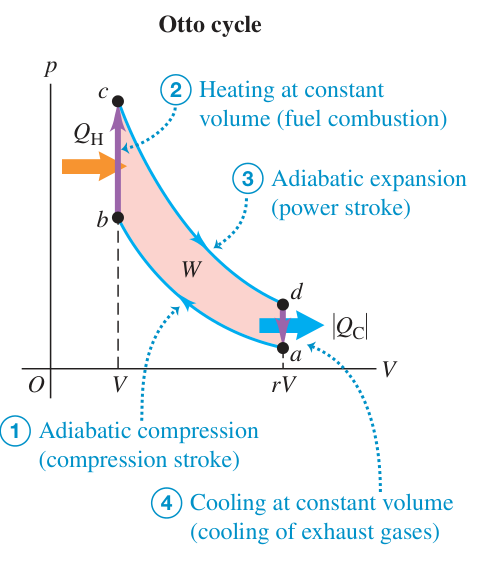
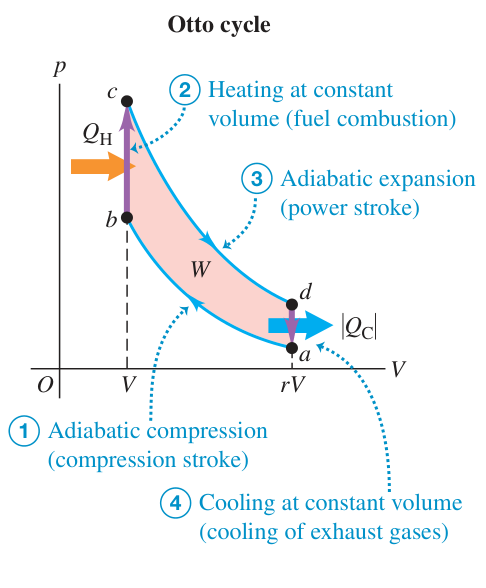
content: restore Otto callout and magnetic force equation label

diff --git a/raw_materials/physics/verify_chapter17_theory_b.py b/raw_materials/physics/verify_chapter17_theory_b.py
@@ -310,10 +310,10 @@ crops_spec = {
     "b-ung-dung-17-01": (582, (27.0, 193.0, 195.0, 369.0)),
     "b-hinh-17-25": (583, (85.0, 220.0, 332.0, 353.0)),
     "b-hinh-17-26": (583, (75.0, 638.0, 341.0, 731.0)),
-    "b-hinh-17-27": (584, (74.0, 197.0, 214.0, 327.0)),
+    "b-hinh-17-27": (584, (74.0, 197.0, 268.0, 327.0)),
     "b-hinh-17-28": (584, (33.0, 455.0, 194.0, 662.0)),
     "b-hinh-17-29": (585, (453.0, 225.0, 614.0, 348.0)),
-    "b-hinh-17-30": (587, (75.0, 538.0, 588.0, 732.0)),
+    "b-hinh-17-30": (587, (75.0, 542.0, 588.0, 748.0)),
     "b-tom-tat-01": (588, (447.0, 87.0, 577.0, 207.0)),
     "b-tom-tat-02": (588, (447.0, 242.0, 577.0, 307.0)),
     "b-tom-tat-03": (588, (447.0, 377.0, 577.0, 487.0)),

diff --git a/scripts/prepare-physics1-20-exercises-c-assets.py b/scripts/prepare-physics1-20-exercises-c-assets.py
@@ -12,7 +12,7 @@ import pymupdf as fitz
 ROOT = Path(__file__).resolve().parents[1]
 CROPS = {
     'c-hinh-20-23': (691, (350, 238, 608, 380)),
-    'c-hinh-20-06': (668, (36, 94, 195, 290)),
+    'c-hinh-20-06': (668, (33, 94, 195, 290)),
     'c-hinh-20-09': (670, (78, 84, 612, 335)),
     'c-hinh-20-13': (674, (170, 84, 615, 350)),
 }

diff --git a/raw_materials/physics/verify_chapter20_exercises_c.py b/raw_materials/physics/verify_chapter20_exercises_c.py
@@ -239,7 +239,7 @@ def verify_image_assets():
     img_dir = ROOT / 'docs/vat-ly-1/bai-giang/img/young-20'
     crops = {
         'c-hinh-20-23.png': (774, 426),
-        'c-hinh-20-06.png': (477, 588),
+        'c-hinh-20-06.png': (486, 588),
         'c-hinh-20-09.png': (1602, 753),
         'c-hinh-20-13.png': (1335, 798),
     }

diff --git a/raw_materials/physics/reviews/screened-verifier-reruns-20261028.md b/raw_materials/physics/reviews/screened-verifier-reruns-20261028.md
@@ -1,0 +1,11 @@
+# Chạy lại các bộ kiểm chứng hiện có
+
+Đã sàng lọc tĩnh 315 tệp kiểm chứng. Trong 129 tệp đủ điều kiện, năm tệp chỉ in kết quả mà không có phép khẳng định được loại khỏi lượt chạy kiểm tra. Chạy tuần tự 124 tệp còn lại, giới hạn thời gian và số luồng BLAS. Không chạy build trang trên máy người dùng.
+
+Lượt đầu có 121 tệp đạt và ba tệp thất bại. Hai vùng cắt kỳ vọng ở bộ kiểm chương 17 đã cũ so với ảnh đầy đủ đang được dùng. Sau khi đọc ngữ cảnh PDF, đã đồng bộ vùng kỳ vọng và đối chiếu RGB 21 ảnh với bản kết xuất gốc. Không sửa các con số vật lý để làm bộ kiểm đạt.
+
+Ảnh chu trình Otto thực sự thiếu một phần mép trái vòng tròn số 1. Đã mở rộng ba điểm PDF ở cạnh trái, giữ cách kết xuất và mọi phần nội dung, đồng thời cập nhật công cụ xuất ảnh và kích thước kỳ vọng. Các phép kiểm biên trắng ban đầu vẫn giữ nguyên và cả bốn ảnh đều đạt.
+
+Biểu thức 27.16 đã có đủ nội dung toán học nhưng thiếu số phương trình. Đã đối chiếu trang PDF 914 rồi khôi phục nhãn. Bộ kiểm toàn mục đạt, bao gồm các công thức, ví dụ, hình tham chiếu và phép tính vector đã được mã hóa.
+
+Ba tệp đã được chạy lại và đạt. Giới hạn quan trọng của bằng chứng này là phạm vi các khẳng định sẵn có, không phải lời bảo đảm mọi bài trong sách đều đúng. Các tệp có thể ghi dữ liệu hoặc dùng thư viện chưa kiểm tra chưa được thực thi trong lượt này.

diff --git a/raw_materials/physics/translations/chapter-27/06-luc-tu-len-day.md b/raw_materials/physics/translations/chapter-27/06-luc-tu-len-day.md
@@ -23,6 +23,7 @@ $$
 F &= (nA\ell)(qv_dB) \\
 &= (nqv_dA)(\ell B).
 \end{aligned}
+\tag{27.16}
 $$
 
 Mật độ dòng điện có độ lớn $J=nqv_d$, còn dòng điện qua tiết diện là $I=JA$. Thay vào biểu thức trên, ta được $F=I\ell B$ khi dây vuông góc với từ trường.
